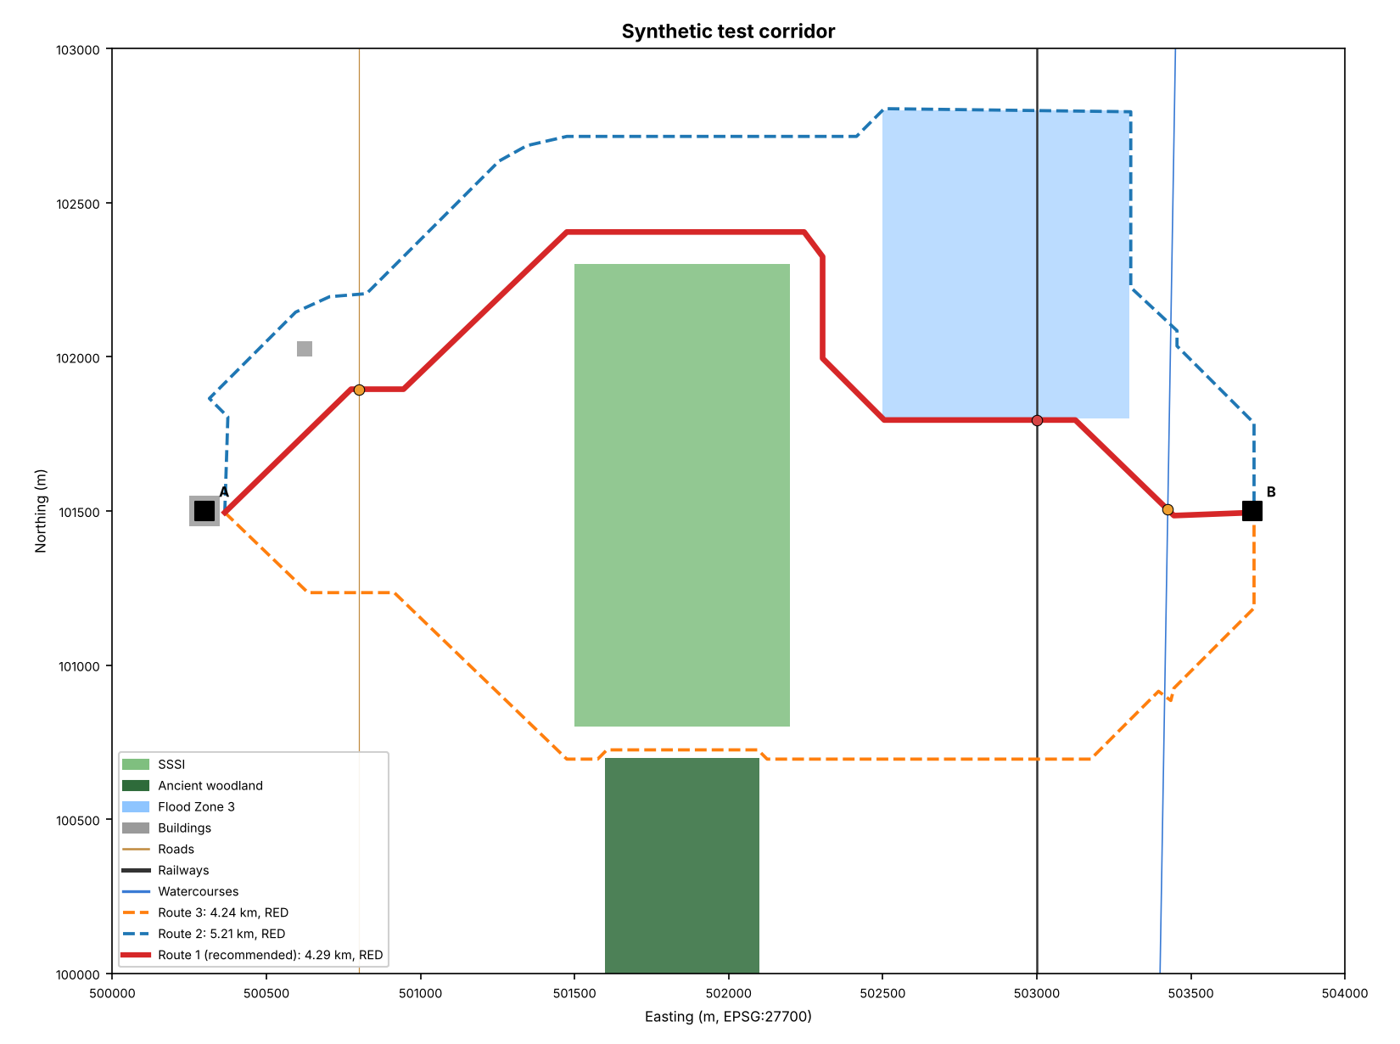
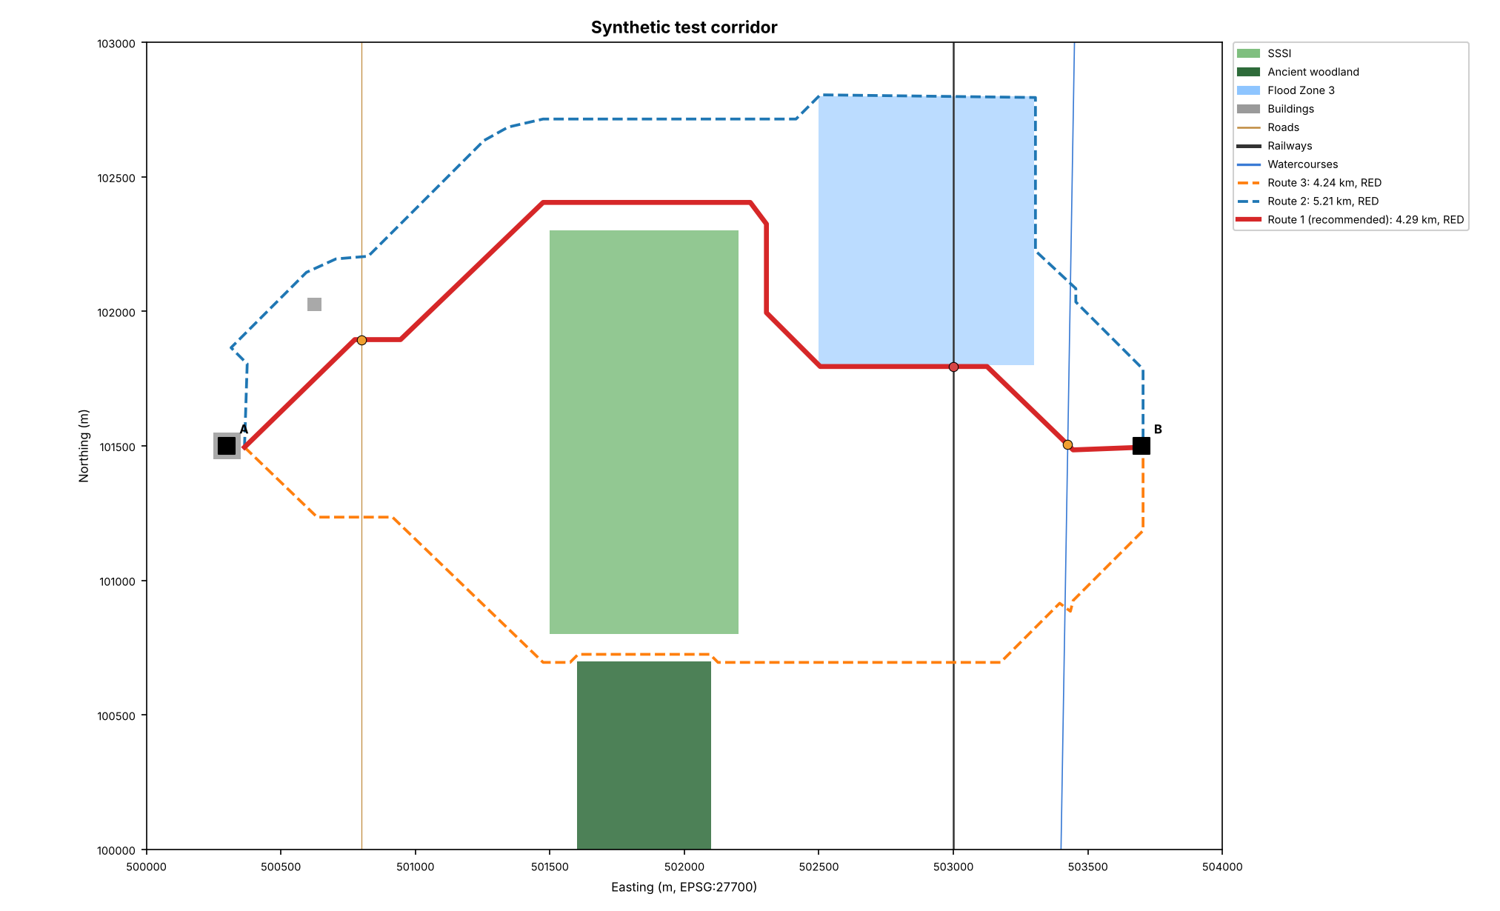
Merge dual-carriageway crossings and flood-zone slivers; legend outside map

diff --git a/routeengine/analysis.py b/routeengine/analysis.py
@@ -135,9 +135,26 @@ def find_crossings(project: Project, route: LineString, layers: dict[str, gpd.Ge
                 found.append(Crossing("", rule.layer, rule.label, cls, str(feat.get("label", "") or ""),
                                       round(ch, 1), angle, rag, reason, round(pt.x, 2), round(pt.y, 2)))
     found.sort(key=lambda c: c.chainage)
+    found = merge_parallel(found, project.merge_crossings_m)
     for i, c in enumerate(found, start=1):
         c.ref = f"X{i:02d}"
     return found
+
+
+def merge_parallel(crossings: list[Crossing], within_m: float) -> list[Crossing]:
+    """One crossing for a dual carriageway or twin-track railway: same layer and name/class within `within_m`."""
+    merged: list[Crossing] = []
+    for c in crossings:
+        prev = merged[-1] if merged else None
+        same = prev and prev.layer == c.layer and (prev.name or prev.cls) == (c.name or c.cls)
+        if same and c.chainage - prev.chainage <= within_m:
+            width = c.chainage - prev.chainage
+            prev.reason = f"{prev.reason}; parallel features over {width:.0f} m (e.g. dual carriageway)"
+            if RAG_ORDER[c.rag] > RAG_ORDER[prev.rag]:
+                prev.rag = c.rag
+            continue
+        merged.append(c)
+    return merged
 
 
 def area_findings(project: Project, route: LineString, swathe, layers) -> list[Finding]:
@@ -156,10 +173,17 @@ def area_findings(project: Project, route: LineString, swathe, layers) -> list[F
             # Swathe clips the feature even though the centreline does not.
             ch = route.project(target.centroid)
             out.append(Finding("area", rule["label"], "construction swathe overlaps", ch, ch, 0.0, rule["rag"]))
-        for p in parts:
+        sections: list[list[float]] = []  # [from, to, length inside]
+        for p in sorted(parts, key=lambda p: route.project(Point(p.coords[0]))):
             a, b = sorted((route.project(Point(p.coords[0])), route.project(Point(p.coords[-1]))))
-            out.append(Finding("area", rule["label"], f"{p.length:.0f} m of centreline inside",
-                               round(a, 1), round(b, 1), round(p.length, 1), rule["rag"]))
+            if sections and a - sections[-1][1] <= project.merge_area_gap_m:
+                sections[-1][1] = max(sections[-1][1], b)
+                sections[-1][2] += p.length
+            else:
+                sections.append([a, b, p.length])
+        for a, b, length in sections:
+            out.append(Finding("area", rule["label"], f"{length:.0f} m of centreline inside",
+                               round(a, 1), round(b, 1), round(length, 1), rule["rag"]))
     return out
 
 

diff --git a/routeengine/report.py b/routeengine/report.py
@@ -42,7 +42,7 @@ ROUTE_COLORS = ["#d62728", "#1f77b4", "#ff7f0e", "#9467bd"]
 
 
 def overview_map(project: Project, assessments: list[RouteAssessment], layers, path: Path) -> Path:
-    fig, ax = plt.subplots(figsize=(11, 8.2), dpi=150)
+    fig, ax = plt.subplots(figsize=(13.5, 8.2), dpi=150)
     handles = []
     for name, (color, label) in LAYER_STYLE.items():
         gdf = layers.get(name)
@@ -77,7 +77,7 @@ def overview_map(project: Project, assessments: list[RouteAssessment], layers, p
     ax.set_xlabel("Easting (m, EPSG:27700)", fontsize=8)
     ax.set_ylabel("Northing (m)", fontsize=8)
     ax.set_title(project.name, fontsize=11, weight="bold")
-    ax.legend(handles=handles, loc="lower left", fontsize=7, framealpha=0.92)
+    ax.legend(handles=handles, loc="upper left", bbox_to_anchor=(1.01, 1.0), fontsize=7, framealpha=0.92, borderaxespad=0)
     fig.tight_layout()
     fig.savefig(path)
     plt.close(fig)
@@ -177,7 +177,7 @@ def write_pdf(project: Project, assessments: list[RouteAssessment], manifest: li
                + [[str(v) for v in r] for r in _summary_rows(assessments)],
                [16 * mm, 24 * mm, 22 * mm, 26 * mm, 20 * mm, 90 * mm, 14 * mm, 16 * mm, 18 * mm], rag_col=8),
         Spacer(1, 4 * mm),
-        Image(str(map_png), width=140 * mm, height=104 * mm),
+        Image(str(map_png), width=160 * mm, height=97 * mm),
         PageBreak(),
         Paragraph(f"Crossings: recommended route ({main.route.length_m / 1000:.2f} km)", styles["Heading3"]),
     ]

diff --git a/tests/test_analysis.py b/tests/test_analysis.py
@@ -70,3 +70,28 @@ def test_worst():
     assert worst(["GREEN", "AMBER"]) == "AMBER"
     assert worst(["GREEN", "RED", "AMBER"]) == "RED"
     assert worst([]) == "GREEN"
+
+
+def test_dual_carriageway_is_one_crossing(project, layers):
+    import geopandas as gpd
+
+    dual = gpd.GeoDataFrame({"cls": ["trunk", "trunk"], "label": ["A21", "A21"]},
+                            geometry=[LineString([(501000, 100000), (501000, 103000)]),
+                                      LineString([(501020, 100000), (501020, 103000)])], crs="EPSG:27700")
+    xs = find_crossings(project, STRAIGHT, dict(layers, roads=dual))
+    roads = [c for c in xs if c.type == "Road"]
+    assert len(roads) == 1
+    assert roads[0].rag == "RED" and "dual carriageway" in roads[0].reason
+
+
+def test_flood_zone_slivers_merge_into_sections(project, layers):
+    import geopandas as gpd
+    from shapely.geometry import box
+
+    slivers = gpd.GeoDataFrame({"cls": ["fz3"] * 3, "label": [""] * 3},
+                               geometry=[box(501000, 102500, 501100, 102700), box(501110, 102500, 501200, 102700),
+                                         box(502800, 102500, 502900, 102700)], crs="EPSG:27700")
+    [a] = assess(project, [Route(1, STRAIGHT, 1.0, [])], dict(layers, flood_zone_3=slivers), [])
+    fz = [f for f in a.findings if f.item == "Flood Zone 3"]
+    assert len(fz) == 2
+    assert fz[0].value == pytest.approx(190, abs=1) and fz[0].to_ch - fz[0].from_ch == pytest.approx(200, abs=1)

diff --git a/routeengine/config.py b/routeengine/config.py
@@ -65,6 +65,8 @@ class Project:
     max_deflection_deg: float
     oblique_crossing_deg: float
     crossing_band_m: float
+    merge_crossings_m: float
+    merge_area_gap_m: float
     sources: tuple[SourceConfig, ...]
     cost_rules: tuple[CostRule, ...]
     crossing_rules: tuple[CrossingRule, ...]
@@ -100,6 +102,8 @@ def load_project(path: str | Path) -> Project:
         max_deflection_deg=float(r.get("max_deflection_deg", 60)),
         oblique_crossing_deg=float(r.get("oblique_crossing_deg", 60)),
         crossing_band_m=float(r.get("crossing_band_m", 30)),
+        merge_crossings_m=float(r.get("merge_crossings_m", 60)),
+        merge_area_gap_m=float(r.get("merge_area_gap_m", 25)),
         sources=tuple(SourceConfig(**{**s, "class_values": tuple(s.get("class_values", ()))}) for s in raw["sources"]),
         cost_rules=tuple(
             CostRule(layer=c["layer"], mode=c["mode"], factor=float(c.get("factor", 1.0)),

diff --git a/README.md b/README.md
@@ -99,11 +99,11 @@ Adding a source is a few lines of YAML. ArcGIS Feature/Map services, OGC API Fea
 
 ## Tests
 
-`pytest` runs 32 tests offline on a synthetic study area in real BNG coordinates. It covers:
+`pytest` runs 34 tests offline on a synthetic study area in real BNG coordinates. It covers:
 - **Sources:** ArcGIS paging, Esri JSON polygons with holes, OGC API discovery, paging and CRS fallback, Overpass parsing and coordinate order.
 - **ETL:** geometry repair, clipping, optional versus required layer failures.
 - **Routing:** cost surface rules, avoiding exclusions, end-point snapping, distinct alternatives, blocked corridors.
-- **Analysis:** crossing chainage, angle and RAG, oblique escalation, flood-zone lengths, data-gap reporting.
+- **Analysis:** crossing chainage, angle and RAG, oblique escalation, dual carriageways as one crossing, flood-zone sections, data-gap reporting.
 - **Outputs:** DXF units, layers, coordinates and chainage labels; client template layers preserved; Excel and PDF contents; the static site.
 - **PostGIS:** round trip with a spatial index and `ST_Intersects`, against a real PostGIS service in CI.
 
